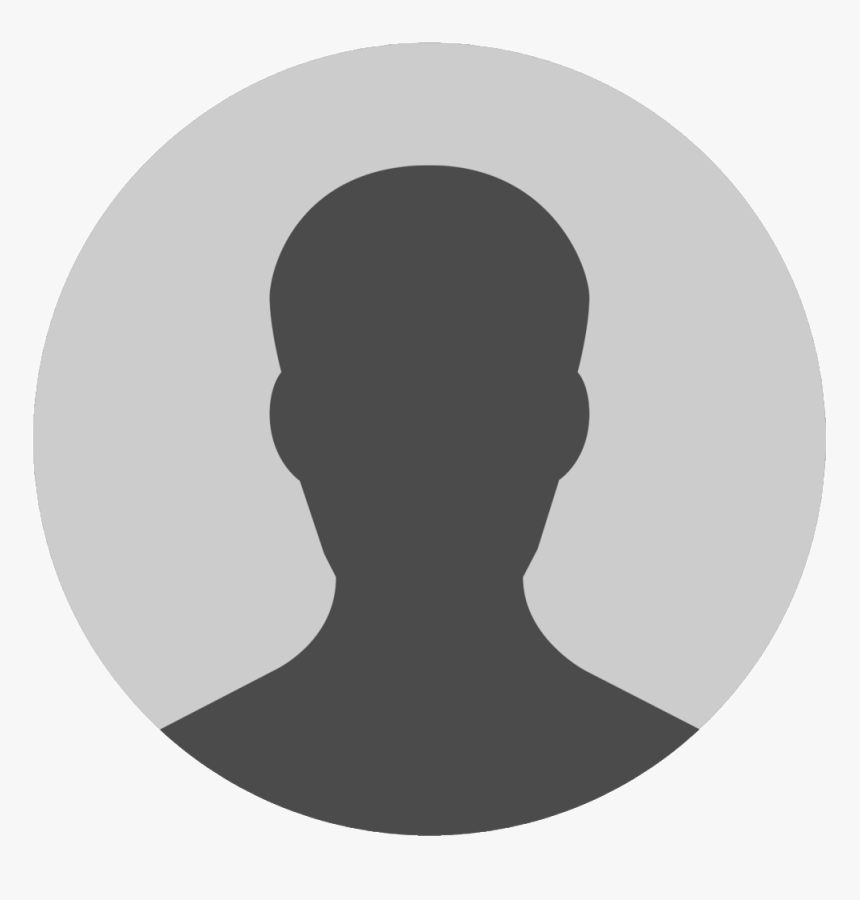
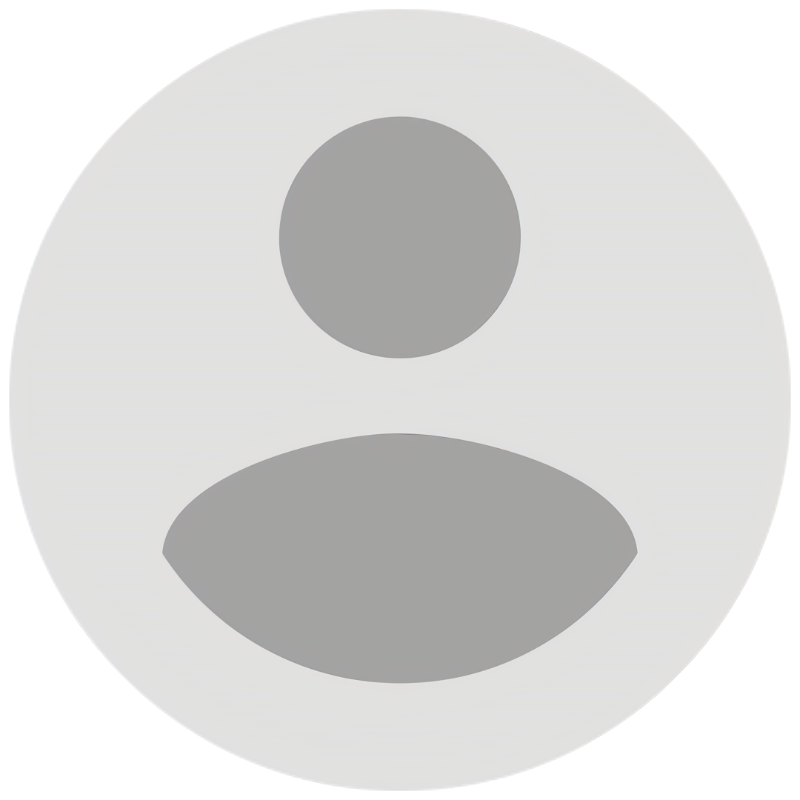
update: improve ui in profile modal

diff --git a/src/public/js/header.js b/src/public/js/header.js
@@ -54,7 +54,7 @@ async function fetchUserData() {
         const userData = await response.json();
         hideLoading();
         if (response.ok) {
-            avatarImg.src = userData.avatarUrl || 'https://via.placeholder.com/150';
+            avatarImg.src = userData.avatarUrl || '/img/avatar_place_holder.png';
             usernameText.textContent = `${userData.firstName} ${userData.lastName}`;
             emailText.textContent = `Email: ${userData.email}`;
             firstNameInput.value = userData.firstName;

diff --git a/src/public/css/header.css b/src/public/css/header.css
@@ -59,6 +59,7 @@
 
 
 .modal-content {
+    display: table;
     background: #fff;
     border-radius: 10px;
     width: 90%;
